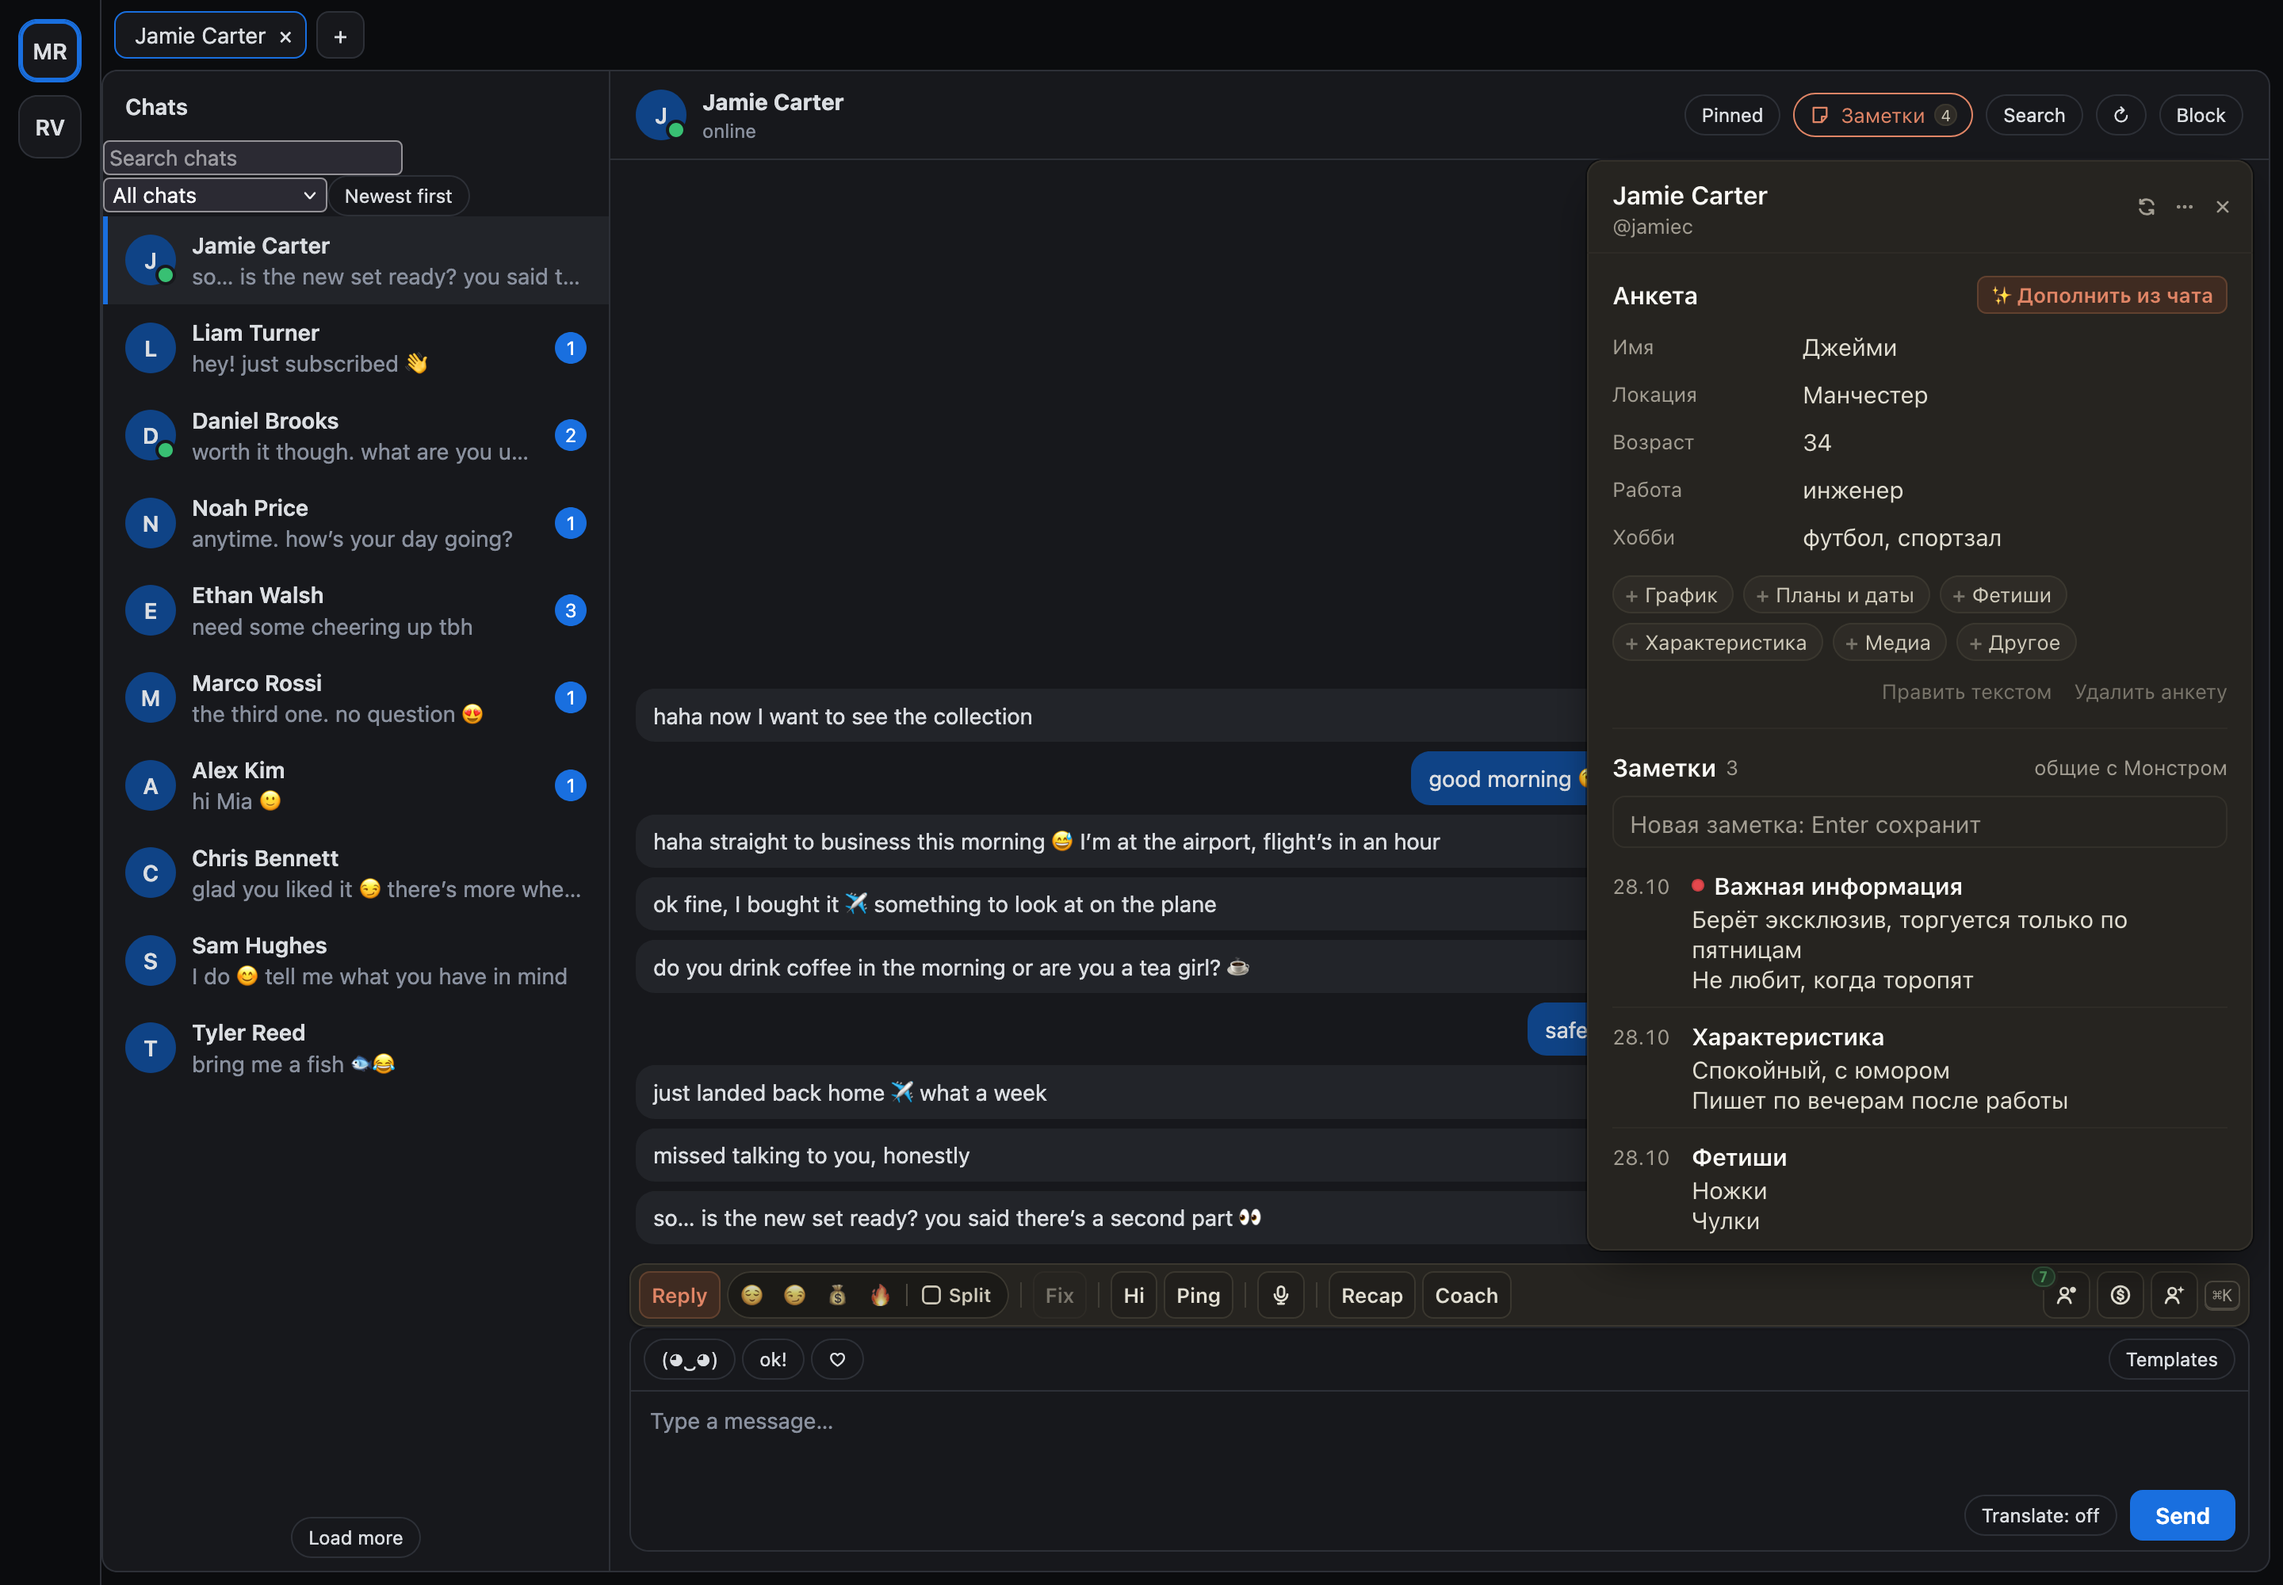
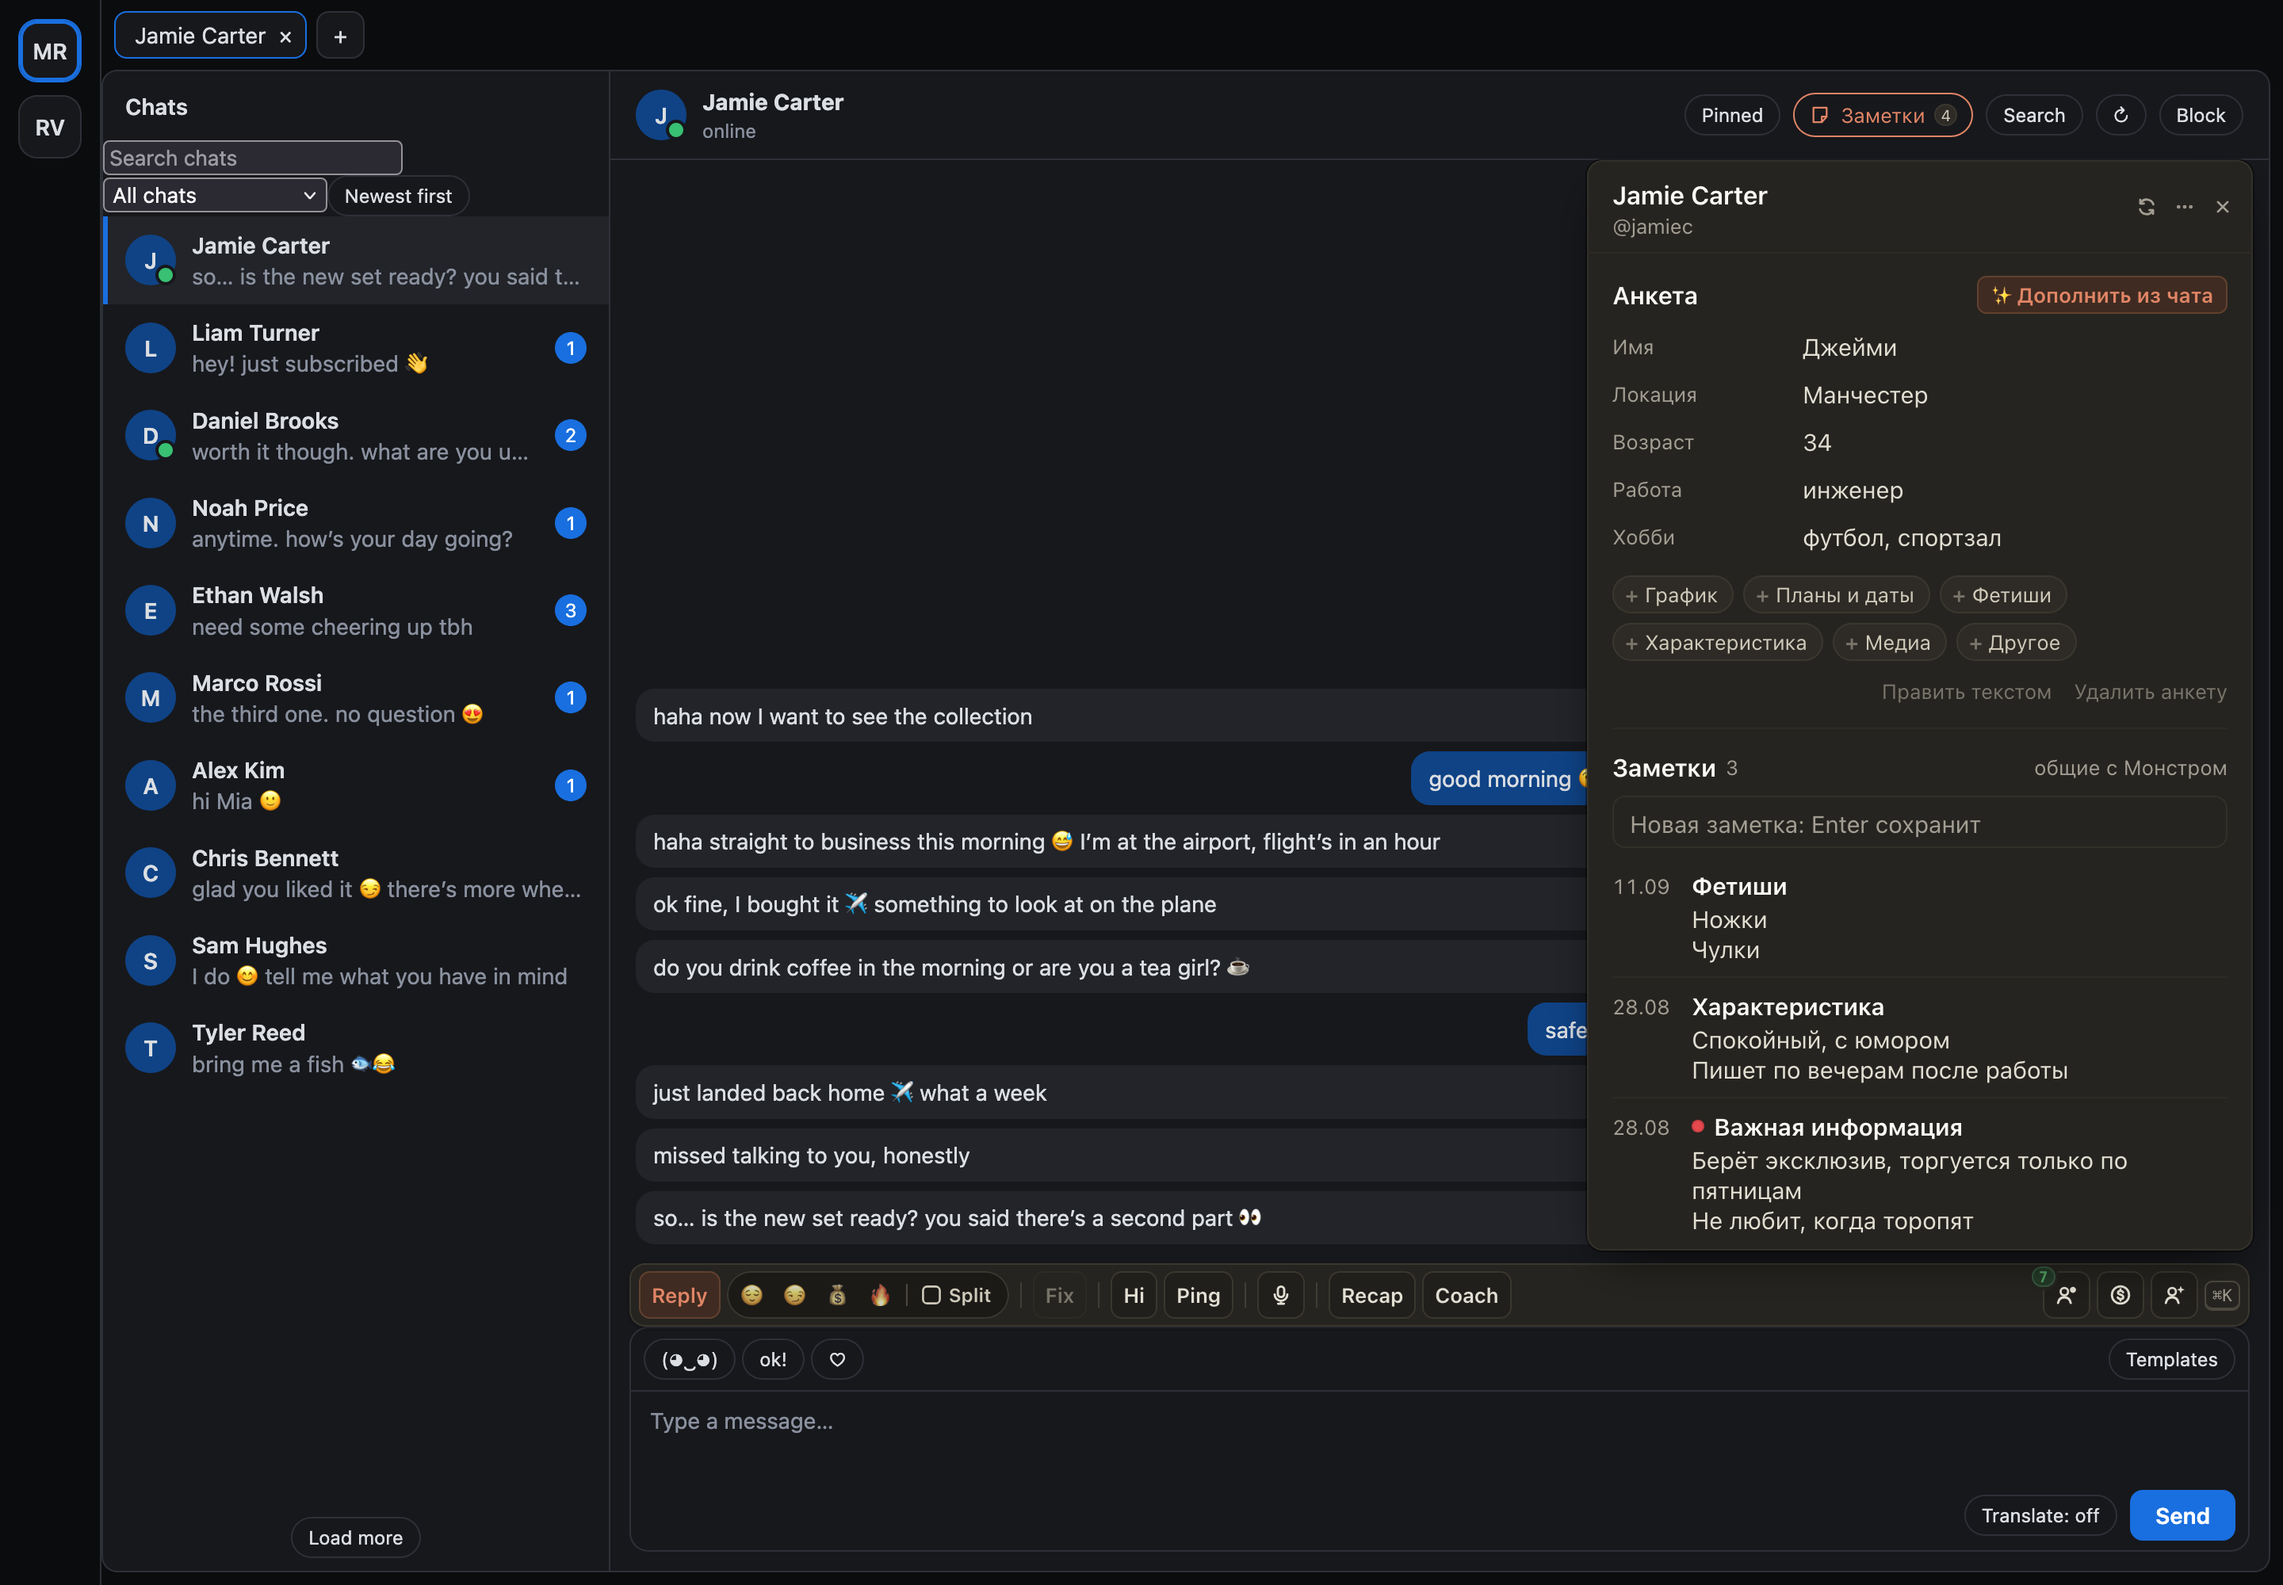
test(see): chatspace-notes recolours a note in place, so the notes keep their dates

Changed region(s): [[0.7188, 0.558, 0.9062, 0.775]]

diff --git a/packages/testing/src/stand/control.ts b/packages/testing/src/stand/control.ts
@@ -230,19 +230,21 @@ export async function handleControl(context: ControlContext, request: IncomingMe
     ok({ items: notes.map((note) => rawNote(accountId, fanId, state.dataset.userId, note)) });
     return;
   }
-  // 2026-10-28: one note changed in place (`{accountId, fanId, id, note}`), as a colleague's edit in ChatSpace's own tab
-  // leaves it: the same id, a new text; the socket hears nothing of it.
+  // 2026-10-28: one note changed in place (`{accountId, fanId, id, note?, color?}`), as a colleague's edit in ChatSpace's
+  // own tab leaves it: the same id, a new text or colour; the socket hears nothing of it.
   if (path === '/__stand/notes/edit' && method === 'POST') {
     const accountId = asString(body['accountId']);
     const fanId = asString(body['fanId']);
-    const note = asString(body['note']);
+    const note = body['note'] === undefined ? undefined : asString(body['note']);
+    const color = body['color'] === undefined ? undefined : body['color'] === null ? null : asString(body['color']);
     const id = typeof body['id'] === 'number' ? body['id'] : Number(asString(body['id']));
     const kept = accountId === null || fanId === null || state.chat(accountId, fanId) === undefined ? undefined : state.notesOf(accountId, fanId).find((item) => item.id === id);
-    if (accountId === null || fanId === null || kept === undefined || note === null || note.trim() === '') {
+    if (accountId === null || fanId === null || kept === undefined || note === null || (note !== undefined && note.trim() === '')) {
       ok({ error: 'unknown note or no text' }, 404);
       return;
     }
-    kept.note = note;
+    if (note !== undefined) kept.note = note;
+    if (color !== undefined) kept.color = color;
     kept.updatedAt = new Date().toISOString();
     ok({ item: rawNote(accountId, fanId, state.dataset.userId, kept) });
     return;

diff --git a/packages/testing/e2e/see/scenarios/chatspace-notes.see.ts b/packages/testing/e2e/see/scenarios/chatspace-notes.see.ts
@@ -102,7 +102,7 @@ scenario(
     await s.keys(s.MOD, s.Key.ArrowDown);
     await s.keys(s.Key.Shift, s.Key.Enter);
     await s.keys('Не любит голосовые');
-    await s.stand.editNote(ACC, FAN, Number(character['id']), `${String(character['note'])}\nДень рождения 12 мая`);
+    await s.stand.editNote(ACC, FAN, Number(character['id']), { note: `${String(character['note'])}\nДень рождения 12 мая` });
     await s.press(/^Сохранить/, 'panel', '[data-notes-save]');
     await s.see('panel', /Сейчас в Монстре/);
     await s.wait(300);
@@ -120,13 +120,9 @@ scenario(
           pageFlags: { [PAGE]: { notes: true, notesFill: true } },
         },
       });
-      // «Важная информация» red in Monster, as a chatter may mark it.
-      const notes = await stand.notes(ACC, FAN);
-      await stand.setNotes(
-        ACC,
-        FAN,
-        notes.map((note) => ({ title: (note['title'] as string | null) ?? null, note: String(note['note']), color: note['title'] === 'Важная информация' ? '#480a09' : ((note['color'] as string | null) ?? null) })),
-      );
+      // «Важная информация» red in Monster, as a chatter may mark it; the notes keep their ids and dates.
+      const important = (await stand.notes(ACC, FAN)).find((note) => note['title'] === 'Важная информация');
+      if (important !== undefined) await stand.editNote(ACC, FAN, Number(important['id']), { color: '#480a09' });
     },
   },
 );

diff --git a/packages/testing/e2e/support/stand.ts b/packages/testing/e2e/support/stand.ts
@@ -202,9 +202,9 @@ export const standServer = {
   setNotes: async (accountId: string, fanId: string, items: ReadonlyArray<{ readonly title?: string | null; readonly note: string; readonly color?: string | null }>): Promise<void> => {
     await control('/__stand/notes', { body: { accountId, fanId, items } });
   },
-  /** One note changed in place, its id kept (a colleague's edit in ChatSpace's own tab); the socket hears nothing of it. */
-  editNote: async (accountId: string, fanId: string, id: number, note: string): Promise<void> => {
-    await control('/__stand/notes/edit', { body: { accountId, fanId, id, note } });
+  /** One note changed in place, its id and dates kept (a colleague's edit in ChatSpace's own tab): a new text or colour; the socket hears nothing of it. */
+  editNote: async (accountId: string, fanId: string, id: number, change: { readonly note?: string; readonly color?: string | null }): Promise<void> => {
+    await control('/__stand/notes/edit', { body: { accountId, fanId, id, ...change } });
   },
   /** Who of the account's fans the presence endpoint (`fans-online`) answers as online; a page sees it at its poll's next look. */
   presence: async (accountId: string, online: readonly string[]): Promise<void> => {
